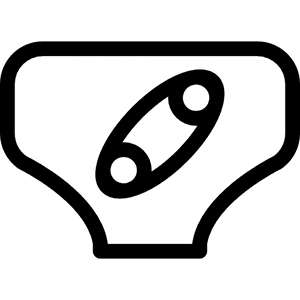
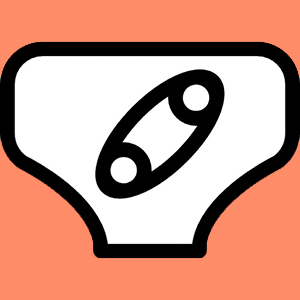
Inserting some nice looks

diff --git a/index.html b/index.html
@@ -6,6 +6,7 @@
   <meta name="Baby" content="Baby, github sourcecode">
   <link rel="stylesheet" href="https://maxcdn.bootstrapcdn.com/bootstrap/3.3.7/css/bootstrap.min.css">
   <link href="https://fonts.googleapis.com/css?family=Montserrat" rel="stylesheet">
+  <link rel="stylesheet" type="text/css" href="css/style.css">
   <script src="https://ajax.googleapis.com/ajax/libs/jquery/3.1.1/jquery.min.js"></script>
   <script src="https://maxcdn.bootstrapcdn.com/bootstrap/3.3.7/js/bootstrap.min.js"></script>
   <script type="text/javascript" src="js/moment-with-locales.min.js"></script>
@@ -14,99 +15,99 @@
 	<div class="container-fluid">
 		<script src="js/baby.js"></script>
     	<div class="row">
-    		<div class="col-md-12 col-lg-12 text-center center-block">
+    		<div class="col-md-12 col-lg-12 text-center center-block bg-1 border-bottom">
     			<img src="img/diaper.jpg" />
     		</div>
-    		<div id="started" class="col-md-6 col-lg-6 text-center">
+    		<div id="started" class="col-md-6 col-lg-6 text-center bg-2 border-bottom">
     			<script>
 				    $(document).ready(function(){
 			        var then = $('#started'),
 			            update = function(){
-			                       then.html('<p>Tudo começou a ' + whenItAllStarted() + '</p>');
+			                       then.html('<br /><br /><p><h5>Tudo começou a ' + whenItAllStarted() + '</h5></p><br /><br />');
 			                     };
 			        
 			        update();
 			      });
 				</script>
     		</div>
-    		<div id="now" class="col-md-6 col-lg-6 text-center">
+    		<div id="now" class="col-md-6 col-lg-6 text-center bg-2 border-bottom">
     			<script>
 				    $(document).ready(function(){
 			        var then = $('#now'),
 			            update = function(){
-			                       then.html('<p>Hoje é ' + thisMoment() + '</p>');
+			                       then.html('<br /><br /><p><h5>Hoje é ' + thisMoment() + '</h5></p><br /><br />');
 			                     };
 			        
 			        update();
 			      });
 				</script>
     		</div>
-    		<div id="untilNow" class="col-md-12 col-lg-12 text-center">
+    		<div id="untilNow" class="col-md-12 col-lg-12 text-center bg-3 border-bottom">
     			<script>
 				    $(document).ready(function(){
 			        var then = $('#untilNow'),
 			            update = function(){
-			                       then.html('<p>Até hoje já passaram ' + untilNow() + '</p>');
+			                       then.html('<br /><br /><p><h5>Até hoje já passaram ' + untilNow() + '</h5></p><br /><br />');
 			                     };
 			        
 			        update();
 			      });
 				</script>
     		</div>
-    		<div id="milestoneToday" class="col-md-12 col-lg-12 text-center">
+    		<div id="milestoneToday" class="col-md-12 col-lg-12 text-center bg-4 border-bottom">
     			<script>
 				    $(document).ready(function(){
 			        var then = $('#milestoneToday'),
 			            update = function(){
-			                       then.html('<p>' + isThereAnyMilestoneToday() + '</p>');
+			                       then.html('<br /><br /><p><h5>' + isThereAnyMilestoneToday() + '</h5></p><br /><br />');
 			                     };
 			        
 			        update();
 			      });
 				</script>
     		</div>
-    		<div id="threeMonths" class="col-md-12 col-lg-12 text-center">
+    		<div id="threeMonths" class="col-md-12 col-lg-12 text-center bg-1 border-bottom">
     			<script>
 				    $(document).ready(function(){
 			        var then = $('#threeMonths'),
 			            update = function(){
-			                       then.html('<p>' + timeToReachMilestone(3) + '</p>');
+			                       then.html('<br /><br /><p><h5>' + timeToReachMilestone(3) + '</h5></p><br /><br />');
 			                     };
 			        
 			        update();
 			      });
 				</script>
     		</div>
-    		<div id="sixMonths" class="col-md-12 col-lg-12 text-center">
+    		<div id="sixMonths" class="col-md-12 col-lg-12 text-center bg-2 border-bottom">
     			<script>
 				    $(document).ready(function(){
 			        var then = $('#sixMonths'),
 			            update = function(){
-			                       then.html('<p>' + timeToReachMilestone(6) + '</p>');
+			                       then.html('<br /><br /><p><h5>' + timeToReachMilestone(6) + '</h5></p><br /><br />');
 			                     };
 			        
 			        update();
 			      });
 				</script>
     		</div>
-    		<div id="nineMonths" class="col-md-12 col-lg-12 text-center">
+    		<div id="nineMonths" class="col-md-12 col-lg-12 text-center bg-3 border-bottom">
     			<script>
 				    $(document).ready(function(){
 			        var then = $('#nineMonths'),
 			            update = function(){
-			                       then.html('<p>' + timeToReachMilestone(9) + '</p>');
+			                       then.html('<br /><br /><p><h5>' + timeToReachMilestone(9) + '</h5></p><br /><br />');
 			                     };
 			        
 			        update();
 			      });
 				</script>
     		</div>
-    		<div id="dueDate" class="col-md-12 col-lg-12 text-center">
+    		<div id="dueDate" class="col-md-12 col-lg-12 text-center bg-4 border-bottom">
     			<script>
 				    $(document).ready(function(){
 			        var then = $('#dueDate'),
 			            update = function(){
-			                       then.html('<p>' + dueDate() + '</p>');
+			                       then.html('<br /><br /><p><h5>' + dueDate() + '</h5></p><br /><br />');
 			                     };
 			        
 			        update();
@@ -116,8 +117,8 @@
     	</div>
     </div>
     <!-- Footer -->
-	<footer class="container-fluid bg-2 text-center">
-  		<p>&copy; 2017</p> 
+	<footer class="container-fluid bg-1 text-center">
+  		<br /><p>&copy; 2017</p><br />
 	</footer>
 </body>
 </html>

diff --git a/css/style.css b/css/style.css
@@ -1,0 +1,22 @@
+.bg-1 { 
+  background-color: #fe8c68;
+  color: #ffffff;
+}
+.bg-2 { 
+  background-color: #cfc4a6;
+  color: #ffffff;
+}
+.bg-3 { 
+  background-color: #c5e6db;
+  color: #000000;
+}
+.bg-4 { 
+  background-color: #ffff01;
+  color: #000000;
+}
+
+.border-bottom {
+    border-bottom: solid;
+    border-color: #ffffff;
+    border-width: 1px;
+}
